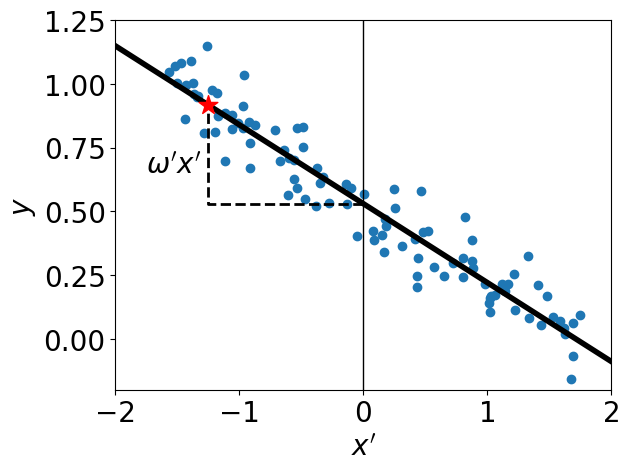
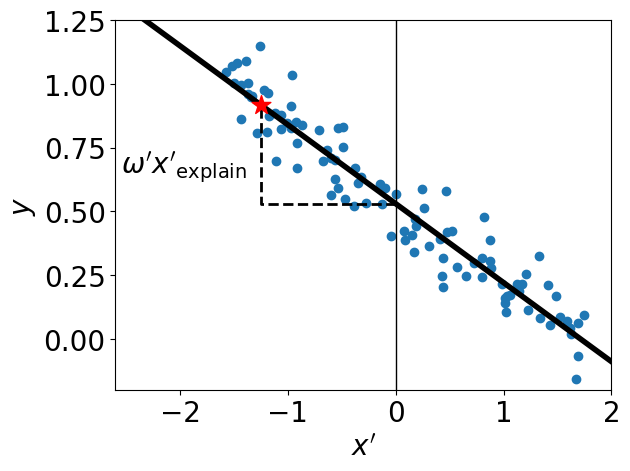
X_explain in images for LM blog.

diff --git a/_posts/2024-11-8-LinearModels.md b/_posts/2024-11-8-LinearModels.md
@@ -80,7 +80,7 @@ plt.plot(line, model.intercept_ + model.coef_[0]*line, 'k-', linewidth=4)
 plt.scatter(x_explain, pred, marker="*", c='r', s=200, zorder=3)
 # The local importance at x_explain
 plt.plot([0, x_explain, x_explain], [model.intercept_, model.intercept_, pred], 'k--', linewidth=2)
-plt.text(x_explain+0.07, (model.intercept_ +  pred) / 2, r"$\omega x$")
+plt.text(x_explain+0.07, (model.intercept_ +  pred) / 2, r"$\omega x_{\text{explain}}$")
 plt.xlim(-0.2, 2)
 plt.ylim(0, 2.2)
 plt.xlabel("x")
@@ -89,8 +89,8 @@ plt.ylabel("y")
 
 ![invariance_1](/images/blog-bb/linear_invariance_1.png)
 
-Here, the blue points are the data, the black dashed line is the model prediction \\(h(x)\\) while the red star is the point of interest \\(x_{\text{explain}}\\) along with the
-prediction \\(h(x_{\text{explain}})\\). Assuming the target \\(y\\) represents the risk of defaulting on your credit, the red star represents an applicant who was predicted
+Here, the blue points are the data, the thick black line is the model prediction \\(h(x)\\) on all \\(x\\) values, and the red star is the point of interest \\(x_{\text{explain}}\\) along with the
+prediction \\(h(x_{\text{explain}})\\). Assuming the target \\(y\\) represents the risk of defaulting on your credit, the red star may represent an applicant who was predicted
 as high-risk by the model and so saw their loan rejected. This individual asks for an explanation for their loan rejection.
 
 ```python
@@ -121,17 +121,17 @@ pred_prime = model_prime.intercept_ + model_prime.coef_[0]*x_explain_prime
 
 plt.figure()
 # Plot the data
-plt.scatter(X_prime.ravel(), y)
-plt.vlines(0, -2, 2, 'k', linewidth=1)
+plt.scatter(X_.ravel(), y)
+plt.vlines(0, -2.6, 2, 'k', linewidth=1)
 # Plot the model predictions
-line = np.linspace(-2, 2, 10)
-plt.plot(line, model_prime.intercept_ + model_prime.coef_[0]*line, 'k-', linewidth=4)
-# The point to explain
-plt.scatter(x_explain_prime, pred_prime, marker="*", c='r', s=200, zorder=3)
-# The local importance
-plt.plot([0, x_explain_prime, x_explain_prime], [model_prime.intercept_, model_prime.intercept_, pred_prime], 'k--', linewidth=2)
-plt.text(x_explain_prime-0.5, 0.45 * (model_prime.intercept_ +  pred_prime), r"$\omega'x'$")
-plt.xlim(-2, 2)
+line = np.linspace(-2.6, 2, 10)
+plt.plot(line, model_.intercept_ + model_.coef_[0]*line, 'k-', linewidth=4)
+# Plot the point to explain
+plt.scatter(x_explain_, pred_, marker="*", c='r', s=200, zorder=3)
+# The local Importance
+plt.plot([0, x_explain_, x_explain_], [model_.intercept_, model_.intercept_, pred_], 'k--', linewidth=2)
+plt.text(x_explain_-1.3, 0.45 * (model_.intercept_ +  pred_), r"$\omega'x'_{\text{explain}}$")
+plt.xlim(-2.6, 2)
 plt.ylim(-0.2, 1.25)
 plt.xlabel("x'")
 plt.ylabel("y")
@@ -139,7 +139,7 @@ plt.ylabel("y")
 
 ![invariance_2](/images/blog-bb/linear_invariance_2.png)
 
-This new model \\(h'\\) is essentially a horizontally shifted image of the original one \\(h\\)
+This new model \\(h'\\) is essentially a horizontally shifted image of the original one \\(h\\).
 Although it is not the same **function**, they make the same prediction on the data. That is, the individual \\(x_{\text{explain}}'\\) (the red star) is
 still predicted as high risk and so their loan is rejected. Using this new model, the explanation \\(\omega_1'x'\\) becomes
 
@@ -148,7 +148,7 @@ print(f"Local Importance of x_explain_prime : {float(model_prime.coef_[0]*x_expl
 >> Local Importance of x_explain_prime : 0.39
 ```
 
-This is **not** the same feature importance that we had for \\(h(x)\\) (it was -1.15). This is problematic because the loan applicant can receive 
+This is **not** the same feature importance that we had for \\(h(x_{\text{explain}})\\) (it was -1.15). This is problematic because the loan applicant can receive 
 two different explanations for the same loan rejection.
 
 > Feature Importance scores should be invariant to modeling choices that keep the predictions on data intact.
